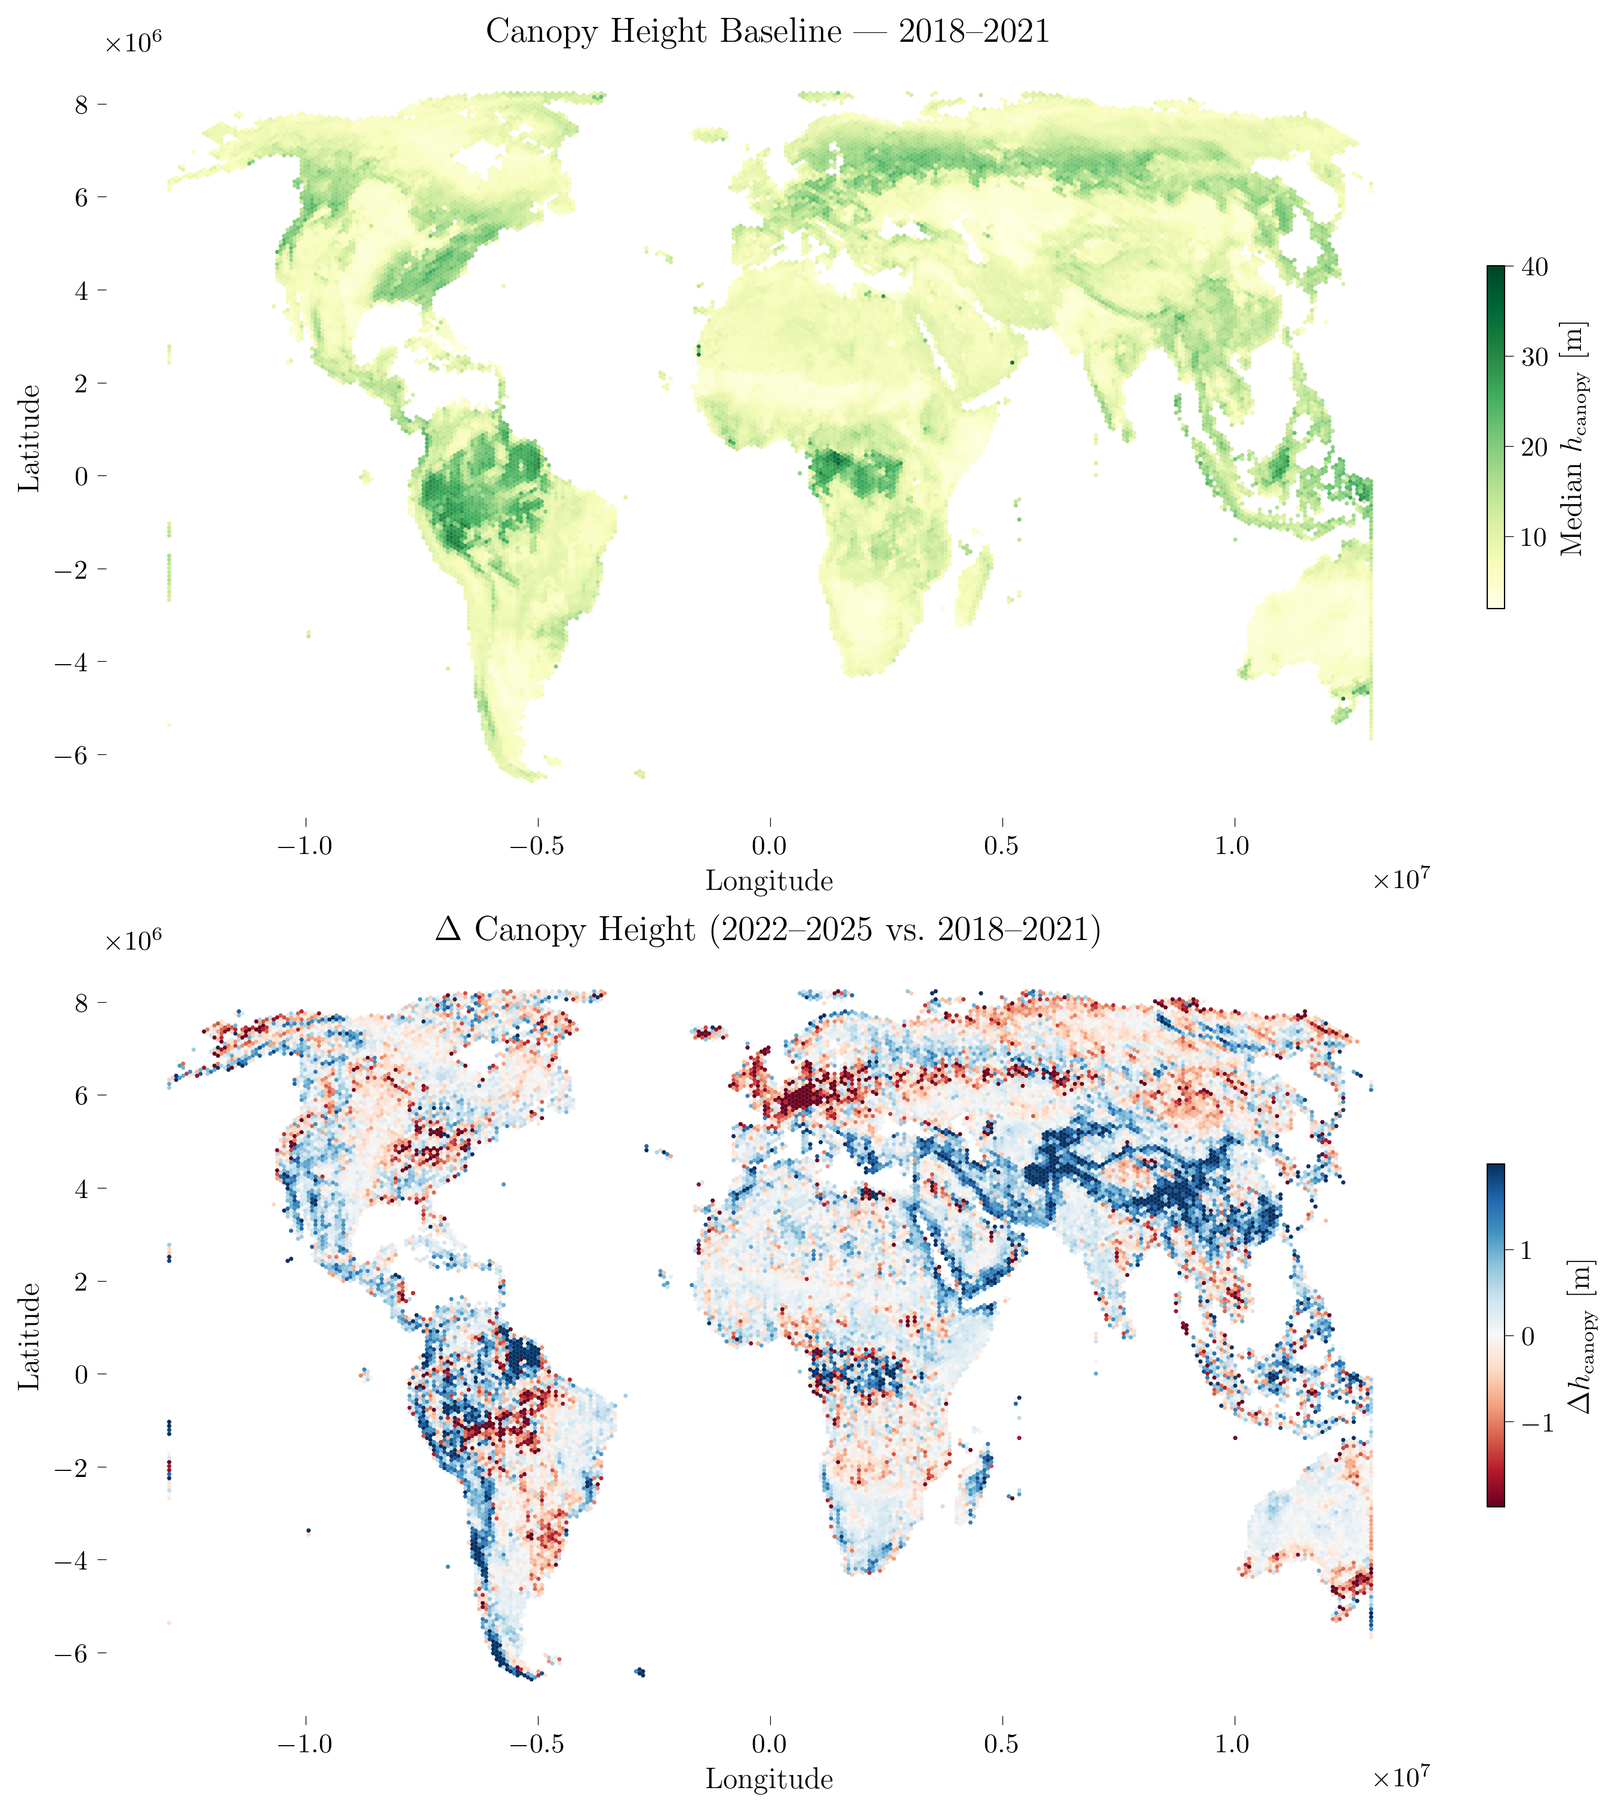
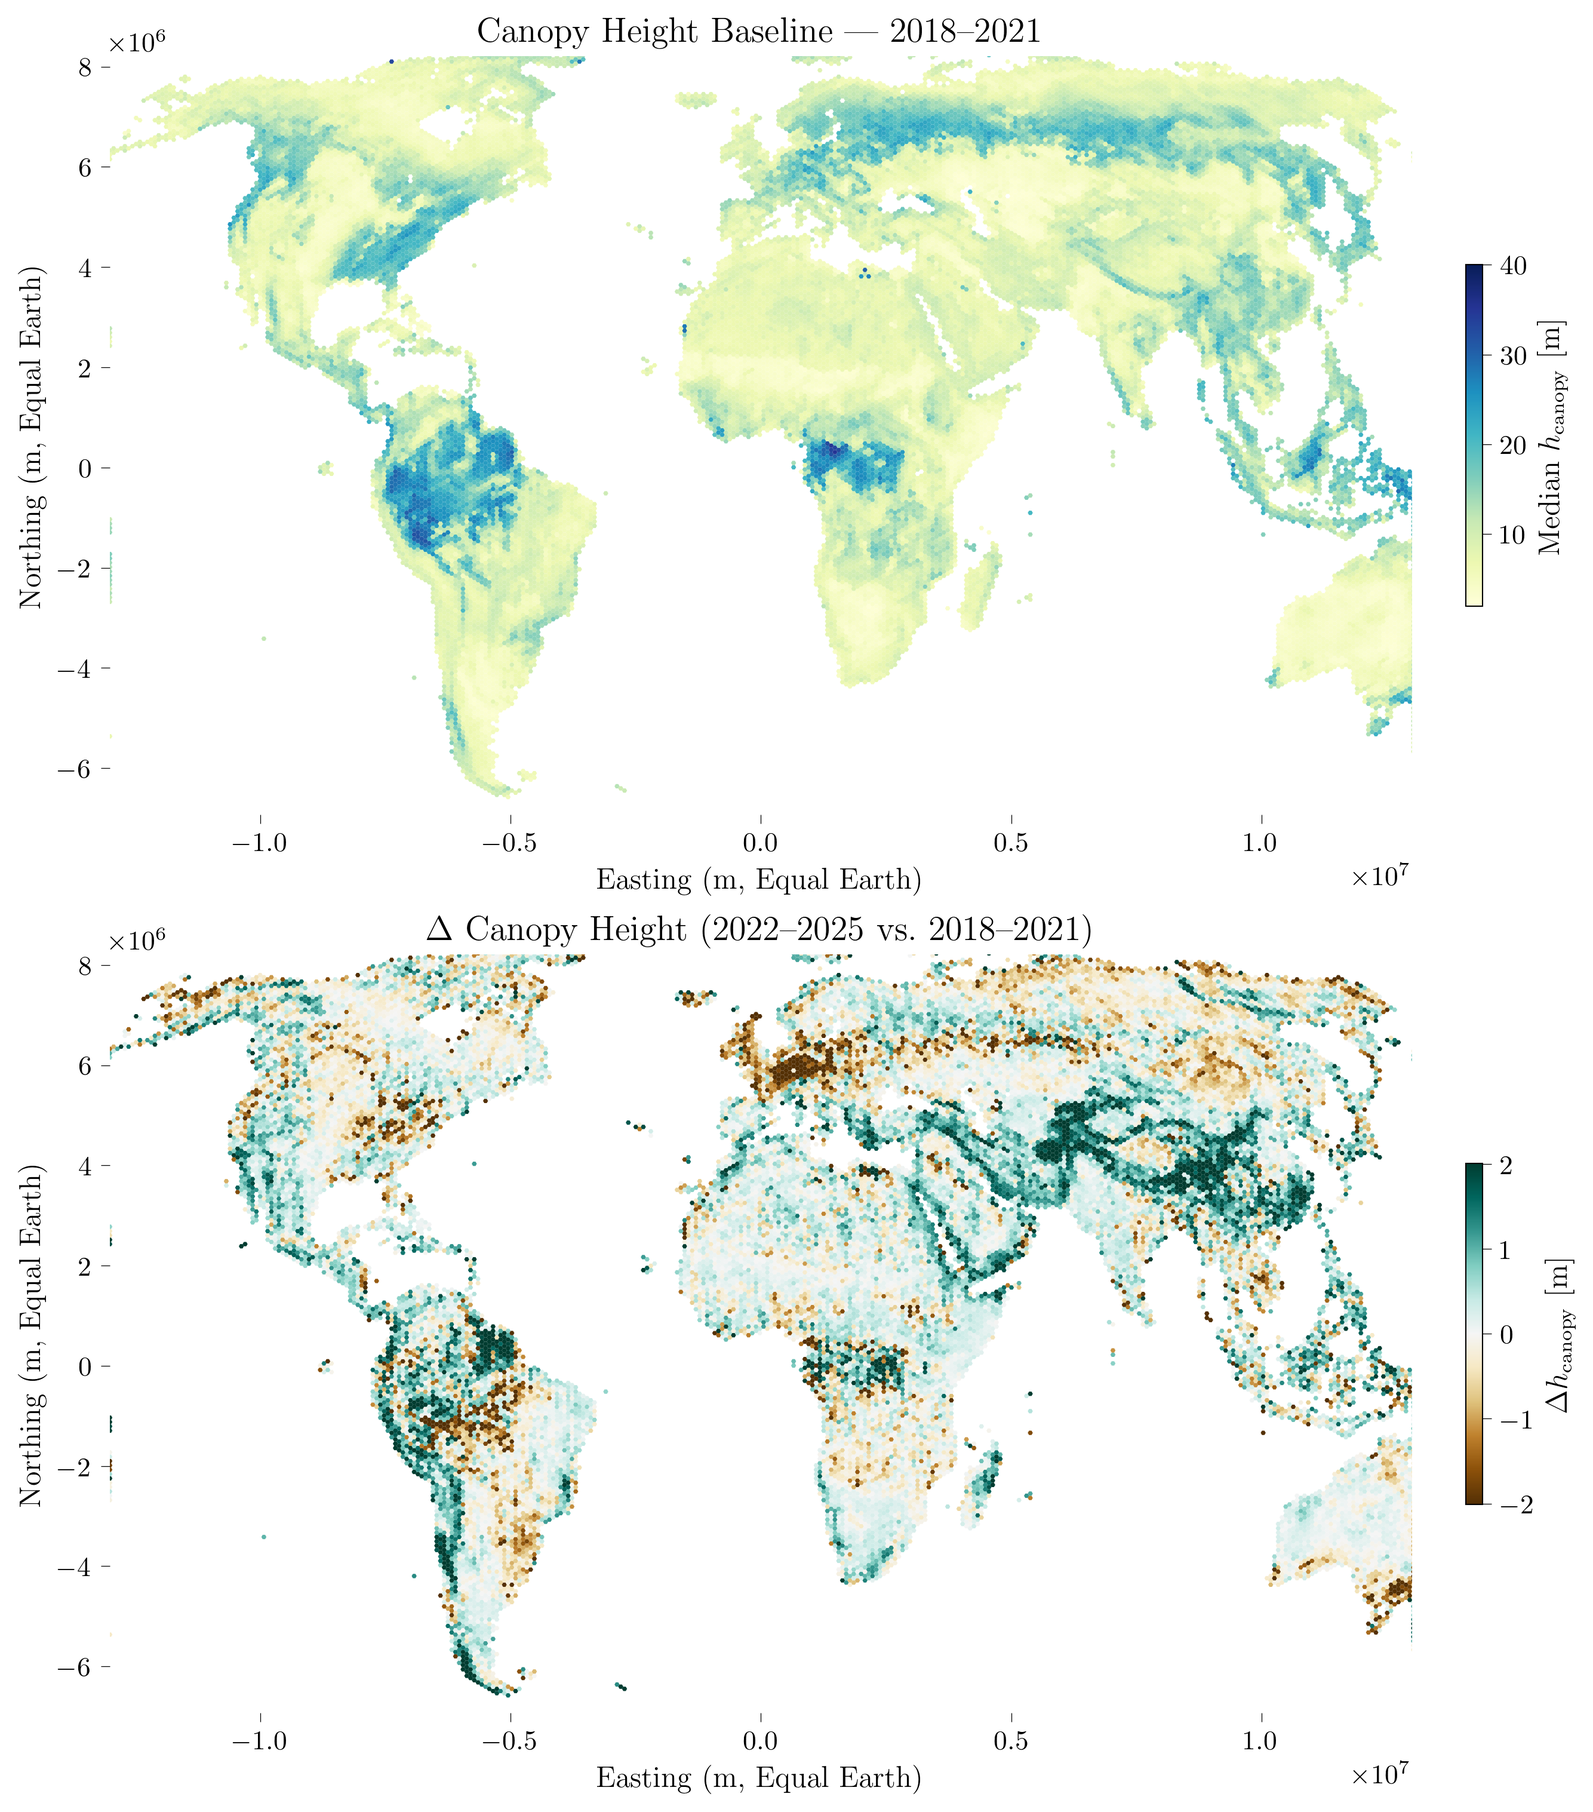
clean up gedidb legacy

diff --git a/doc/user/tiledb_database.rst b/doc/user/tiledb_database.rst
@@ -275,32 +275,37 @@ Application: Global Canopy Height Dynamics
 ------------------------------------------
 
 This example demonstrates how to use the TileDB global database to analyse
-multi-temporal canopy height changes across the globe. The
-workflow queries ``h_canopy`` for two consecutive periods (2018-2021 and
-2022-2025), aggregates the segments onto a global H3 hexagonal grid (resolution 3,
-~830 km² per cell), and maps the per-cell change in median canopy height.
+multi-temporal canopy height changes across the globe. The workflow queries
+``h_canopy`` for two consecutive periods (2018-2021 and 2022-2025), aggregates
+the segments onto a custom equal-area hexagonal grid (~100 km diameter per cell),
+and maps the per-cell change in median canopy height.
 
 The key steps are:
 
-1. **Query** ``h_canopy`` for each period over the full Northern Hemisphere
-   bounding box (0°-80°N) using ``IceSat2Provider``.
+1. **Query** ``h_canopy`` for each period over the global bounding box
+   (60°S-80°N) using ``IceSat2Provider``.
 2. **Filter** shots to the physically plausible canopy height range (2-60 m).
-3. **Aggregate** segments to H3 hexagons (minimum 1000 segments per cell) to suppress
-   noise from sparse sampling.
-4. **Compute** the per-cell difference Δh\ :sub:`canopy` = period 2 − period 1.
-5. **Plot** the baseline canopy height and the change map side-by-side.
+3. **Aggregate** shots to hex cells (minimum 100 shots per cell) and compute
+   the median per cell.
+4. **Compute** the per-cell difference Δh\ :sub:`canopy` = period 2 − period 1
+   for hexes present in both periods.
+5. **Plot** the baseline canopy height and the change map side-by-side in
+   Equal Earth projection with fixed axis limits.
 
 .. code-block:: python
 
    import geopandas as gpd
+   import pandas as pd
    import matplotlib.pyplot as plt
    import matplotlib as mpl
    import numpy as np
-   import icesat2db as idb
+   from scipy.spatial import cKDTree
+   from pyproj import Transformer
    from shapely.geometry import Polygon, box
+   import icesat2db as idb
 
-   # ── Style ─────────────────────────────────────────────────────────────────────
-   params = {
+   # ── Style ──────────────────────────────────────────────────────────────────────
+   mpl.rcParams.update({
        'font.family': 'serif',
        'font.size': 16,
        'axes.titlesize': 13,
@@ -312,34 +317,32 @@ The key steps are:
        'ytick.major.width': 0.3,
        'legend.fontsize': 12,
        'text.usetex': True,
-   }
-   mpl.rcParams.update(params)
+   })
 
-   # ── Config ────────────────────────────────────────────────────────────────────
-   PROJ         = "EPSG:8857"   # Equal Earth — equal-area, good for global
-   HEX_DIAMETER = 100_000       # metres (~100 km)
-   MIN_SHOTS    = 1000
+   # ── Config ─────────────────────────────────────────────────────────────────────
+   PROJ         = "EPSG:8857"    # Equal Earth — equal-area
+   HEX_DIAMETER = 100_000        # metres (~100 km)
+   MIN_SHOTS    = 100
    OUTPATH      = 'global_canopy_dynamics.png'
 
-   GLOBAL_BBOX = gpd.GeoDataFrame(geometry=[box(-180, 20, 180, 80)], crs="EPSG:4326")
-   
+   # ±179.9° avoids floating-point artefacts at the TileDB domain boundary (±180°)
+   GLOBAL_BBOX = gpd.GeoDataFrame(geometry=[box(-179.9, -60, 179.9, 80)], crs="EPSG:4326")
    PERIODS = [
        ("2018-10-01", "2021-12-31"),
        ("2022-01-01", "2025-12-31"),
    ]
 
-   # ── Provider ──────────────────────────────────────────────────────────────────
+   # ── Provider ───────────────────────────────────────────────────────────────────
    provider = idb.IceSat2Provider(
        storage_type='s3',
        s3_bucket="dog.icesat2db.icesat2-atl08-v007",
        url="https://s3.gfz-potsdam.de"
    )
 
-   # ── Hex grid — built once, reused for both periods ────────────────────────────
-   def create_hex_grid(bounds_gdf, hex_diameter=HEX_DIAMETER):
-       """Flat-top hexagon grid in Equal Earth projection over the bounding box."""
-       gdf_proj = bounds_gdf.to_crs(PROJ)
-       xmin, ymin, xmax, ymax = gdf_proj.total_bounds
+   # ── Hex centres: vectorised, no polygons yet ───────────────────────────────────
+   def build_hex_centers(bounds_gdf, hex_diameter=HEX_DIAMETER):
+       """Return (centers, hex_ids) in PROJ coordinates."""
+       xmin, ymin, xmax, ymax = bounds_gdf.to_crs(PROJ).total_bounds
 
        r  = hex_diameter / 2
        dx = 3 / 2 * r
@@ -348,142 +351,142 @@ The key steps are:
        cols = int((xmax - xmin) / dx) + 2
        rows = int((ymax - ymin) / dy) + 2
 
-       hexes = []
-       for row in range(rows):
-           for col in range(cols):
-               x = xmin + col * dx
-               y = ymin + row * dy + (dy / 2 if col % 2 == 1 else 0)
-               hexes.append(Polygon([
-                   (x + r * np.cos(t), y + r * np.sin(t))
-                   for t in np.linspace(0, 2 * np.pi, 7)[:-1]
-               ]))
+       col_idx = np.arange(cols)
+       row_idx = np.arange(rows)
+       col_flat, row_flat = np.meshgrid(col_idx, row_idx)
+       col_flat = col_flat.ravel()
+       row_flat = row_flat.ravel()
 
-       return gpd.GeoDataFrame(
-           {"hex_id": np.arange(len(hexes))},
-           geometry=hexes,
-           crs=PROJ
-       )
+       cx = xmin + col_flat * dx
+       cy = ymin + row_flat * dy + np.where(col_flat % 2 == 1, dy / 2, 0.0)
 
-   print("Building hex grid...")
-   hex_grid = create_hex_grid(GLOBAL_BBOX)
-   print(f"  {len(hex_grid):,} hexes generated")
+       centers = np.column_stack([cx, cy])
+       hex_ids = np.arange(len(centers))
+       return centers, hex_ids
 
-   # ── Fetch → filter → spatial join → aggregate ─────────────────────────────────
-   def fetch_and_aggregate(provider, start, end, hex_grid):
-       print(f"  Fetching {start} → {end}...")
+
+   centers, hex_ids = build_hex_centers(GLOBAL_BBOX)
+
+   # KDTree and coordinate transformer — built once, reused for both periods
+   tree    = cKDTree(centers)
+   to_proj = Transformer.from_crs("EPSG:4326", PROJ, always_xy=True)
+
+
+   # ── Fetch → filter → KDTree assign → aggregate ────────────────────────────────
+   def fetch_and_aggregate(provider, start, end):
        ds = provider.get_data(
            variables=["h_canopy"],
            query_type="bounding_box",
            geometry=GLOBAL_BBOX,
            start_time=start,
            end_time=end,
-           return_type="xarray"
+           return_type="dataframe",
        )
 
        df = (
            ds[["h_canopy", "latitude", "longitude"]]
-           .to_dataframe()
            .reset_index()[["latitude", "longitude", "h_canopy"]]
            .dropna(subset=["h_canopy"])
            .astype({"h_canopy": "float32", "latitude": "float32", "longitude": "float32"})
        )
        del ds
-       print(f"  {len(df):,} shots after dropna")
-
-       # Quality filter
        df = df[(df["h_canopy"] >= 2) & (df["h_canopy"] <= 60)]
-       print(f"  {len(df):,} shots after quality filter")
 
-       # Project points into Equal Earth — no intermediate shapely Points needed
-       gdf = gpd.GeoDataFrame(
-           df[["h_canopy"]],
-           geometry=gpd.points_from_xy(df["longitude"], df["latitude"]),
-           crs="EPSG:4326"
-       ).to_crs(PROJ)
+       lons     = df["longitude"].values
+       lats     = df["latitude"].values
+       h_canopy = df["h_canopy"].values
        del df
 
-       # Spatial join — each shot gets the hex_id of the hex it falls in
-       joined = gpd.sjoin(
-           gdf,
-           hex_grid[["hex_id", "geometry"]],
-           how="inner",
-           predicate="within"
-       )
-       del gdf
-       print(f"  {len(joined):,} shots matched to hexes")
+       # Project to Equal Earth — pure numpy, no GeoDataFrame
+       px, py = to_proj.transform(lons, lats)
+       del lons, lats
 
-       # Aggregate per hex
+       # Nearest-centre assignment (Voronoi identity for a regular grid)
+       _, nn_idx = tree.query(np.column_stack([px, py]), workers=-1)
+       del px, py
+       assigned = hex_ids[nn_idx]
+       del nn_idx
+
        agg = (
-           joined.groupby("hex_id")["h_canopy"]
+           pd.DataFrame({"hex_id": assigned, "h_canopy": h_canopy})
+           .groupby("hex_id")["h_canopy"]
            .agg(h_canopy="median", n_shots="count")
        )
-       del joined
+       del assigned, h_canopy
 
        return agg[agg["n_shots"] >= MIN_SHOTS][["h_canopy"]]
 
-   print("Processing period 1...")
-   agg1 = fetch_and_aggregate(provider, *PERIODS[0], hex_grid)
-   print(f"  {len(agg1):,} valid hexes in period 1")
 
-   print("Processing period 2...")
-   agg2 = fetch_and_aggregate(provider, *PERIODS[1], hex_grid)
-   print(f"  {len(agg2):,} valid hexes in period 2")
+   agg1 = fetch_and_aggregate(provider, *PERIODS[0])
+   agg2 = fetch_and_aggregate(provider, *PERIODS[1])
 
-   # ── Delta ─────────────────────────────────────────────────────────────────────
+   # ── Delta ──────────────────────────────────────────────────────────────────────
    hex_df = (
        agg1.rename(columns={"h_canopy": "h_canopy_p1"})
            .join(agg2.rename(columns={"h_canopy": "h_canopy_p2"}), how="inner")
    )
    hex_df["delta_h_canopy"] = (hex_df["h_canopy_p2"] - hex_df["h_canopy_p1"]).astype("float32")
    del agg1, agg2
-   print(f"  {len(hex_df):,} hexes with data in both periods")
 
-   # ── Attach geometry — reproject to 4326 for display ──────────────────────────
-   hex_gdf = (
-       hex_grid.set_index("hex_id")
-               .join(hex_df, how="inner")
-               #.to_crs("EPSG:4326")
-   )
-   del hex_df, hex_grid
+   # ── Polygons: deferred to surviving hexes only ─────────────────────────────────
+   r       = HEX_DIAMETER / 2
+   angles  = np.linspace(0, 2 * np.pi, 7)[:-1]
+   offsets = np.stack([r * np.cos(angles), r * np.sin(angles)], axis=1)
 
-   # ── Plot ──────────────────────────────────────────────────────────────────────
+   pos_mask          = np.isin(hex_ids, hex_df.index.values)
+   surviving_centers = centers[pos_mask]
+   surviving_labels  = hex_ids[pos_mask]
+
+   vertices = surviving_centers[:, np.newaxis, :] + offsets[np.newaxis, :, :]
+   polys    = [Polygon(v) for v in vertices]
+
+   # Polygons stay in Equal Earth — do NOT convert to EPSG:4326 here.
+   # Hexes near ±180° would straddle the antimeridian and render as
+   # full-width horizontal bands in geographic coordinates.
+   hex_gdf = gpd.GeoDataFrame(hex_df.reindex(surviving_labels), geometry=polys, crs=PROJ)
+   del hex_df, centers, hex_ids, vertices, polys
+
+   # Derive axis limits from the projected bbox so the full global extent is shown
+   _xmin, _ymin, _xmax, _ymax = GLOBAL_BBOX.to_crs(PROJ).total_bounds
+
+   # ── Plot ───────────────────────────────────────────────────────────────────────
    fig, axs = plt.subplots(2, 1, figsize=(16, 10), constrained_layout=True)
+   legend_kw = {"shrink": 0.45, "orientation": "vertical", "pad": 0.02}
 
-   legend_kw_base = {"shrink": 0.45, "orientation": "vertical", "pad": 0.02}
-
-   # Top: baseline canopy height
    hex_gdf.plot(
        column="h_canopy_p1", ax=axs[0],
-       cmap="YlGn", edgecolor="none", legend=True,
+       cmap="YlGnBu", edgecolor="none", legend=True,
        vmin=2, vmax=40,
-       legend_kwds={**legend_kw_base, "label": r"Median $h_{\mathrm{canopy}}$ [m]"}
+       legend_kwds={**legend_kw, "label": r"Median $h_{\mathrm{canopy}}$ [m]"},
    )
+   axs[0].set_xlim(_xmin, _xmax)
+   axs[0].set_ylim(_ymin, _ymax)
    axs[0].set_title(r"Canopy Height Baseline: 2018-2021", fontsize=14)
-   axs[0].set_xlabel("Longitude", fontsize=12)
-   axs[0].set_ylabel("Latitude", fontsize=12)
+   axs[0].set_xlabel("Easting (m, Equal Earth)")
+   axs[0].set_ylabel("Northing (m, Equal Earth)")
    for sp in axs[0].spines.values(): sp.set_visible(False)
 
-   # Bottom: delta canopy height
-   lim = np.percentile(hex_gdf["delta_h_canopy"].abs().dropna(), 95)  # robust symmetric clim
+   lim = np.percentile(hex_gdf["delta_h_canopy"].abs().dropna(), 95)
    hex_gdf.plot(
        column="delta_h_canopy", ax=axs[1],
-       cmap="RdBu", edgecolor="none", legend=True,
+       cmap="BrBG", edgecolor="none", legend=True,
        vmin=-lim, vmax=lim,
-       legend_kwds={**legend_kw_base, "label": r"$\Delta h_{\mathrm{canopy}}$ [m]"}
+       legend_kwds={**legend_kw, "label": r"$\Delta h_{\mathrm{canopy}}$ [m]"},
    )
+   axs[1].set_xlim(_xmin, _xmax)
+   axs[1].set_ylim(_ymin, _ymax)
    axs[1].set_title(r"$\Delta$ Canopy Height (2022-2025 vs.\ 2018-2021)", fontsize=14)
-   axs[1].set_xlabel("Longitude", fontsize=12)
-   axs[1].set_ylabel("Latitude", fontsize=12)
+   axs[1].set_xlabel("Easting (m, Equal Earth)")
+   axs[1].set_ylabel("Northing (m, Equal Earth)")
    for sp in axs[1].spines.values(): sp.set_visible(False)
 
    plt.savefig(OUTPATH, dpi=300, bbox_inches='tight')
    plt.show()
-   print(f"Saved to {OUTPATH}")
 
 The resulting figure shows (top) the median baseline canopy height for
 2018-2021 and (bottom) the change in median canopy height between the two
-periods. Positive values (blue) indicate taller canopy in 2022-2025; negative
-values (red) indicate a decline.
+periods. Positive values (brown/green) indicate taller canopy in 2022-2025;
+negative values indicate a decline.
 
 .. figure:: /_static/images/global_canopy_dynamics.png
    :alt: Global canopy height dynamics derived from ICESat-2 ATL08
@@ -492,8 +495,9 @@ values (red) indicate a decline.
 
    **Figure 2**: Global canopy height baseline (2018-2021, top) and
    change in median canopy height between 2022-2025 and 2018-2021 (bottom),
-   aggregated on an H3 hexagonal grid at resolution 3 (~830 km² per cell).
-   Only cells with at least 1000 segments in both periods are shown.
+   aggregated on a custom equal-area hexagonal grid (~100 km diameter per cell,
+   Equal Earth projection EPSG:8857). Only cells with at least 100 ATL08
+   segments in both periods are shown.
 
 
 Resources

diff --git a/CODE_OF_CONDUCT.md b/CODE_OF_CONDUCT.md
@@ -2,7 +2,7 @@
 
 ## Our Pledge
 
-We, as contributors and maintainers of the `gediDB` project, pledge to create an open, welcoming, and inclusive environment where everyone can contribute and collaborate effectively, regardless of their background or identity.
+We, as contributors and maintainers of the `icesat2DB` project, pledge to create an open, welcoming, and inclusive environment where everyone can contribute and collaborate effectively, regardless of their background or identity.
 
 ## Our Standards
 
